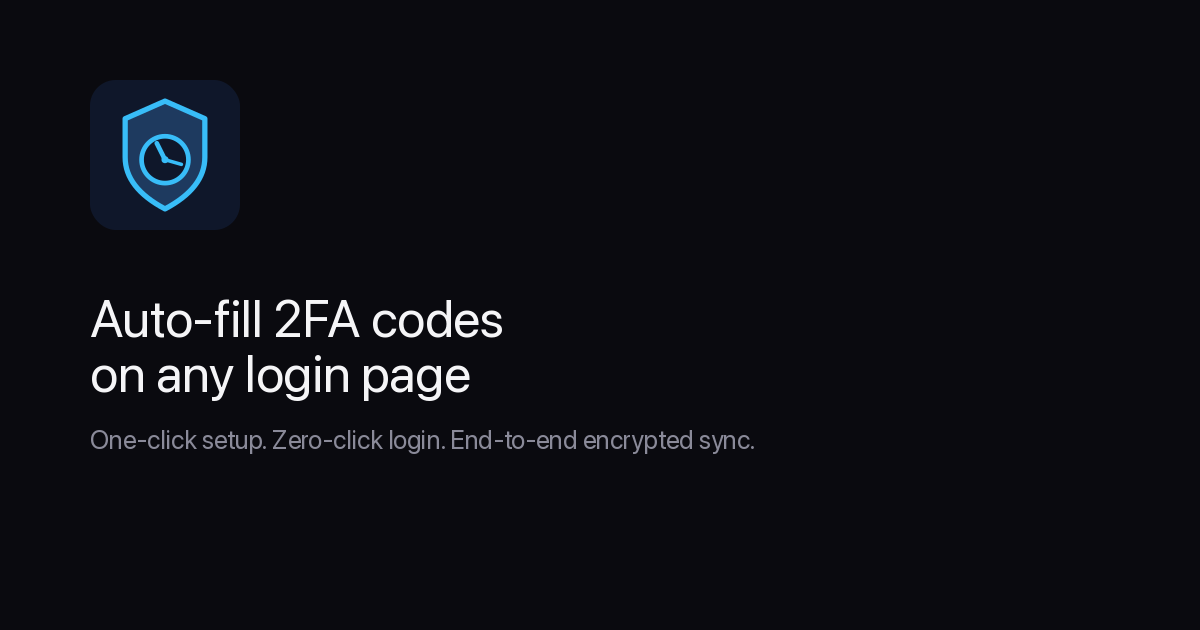
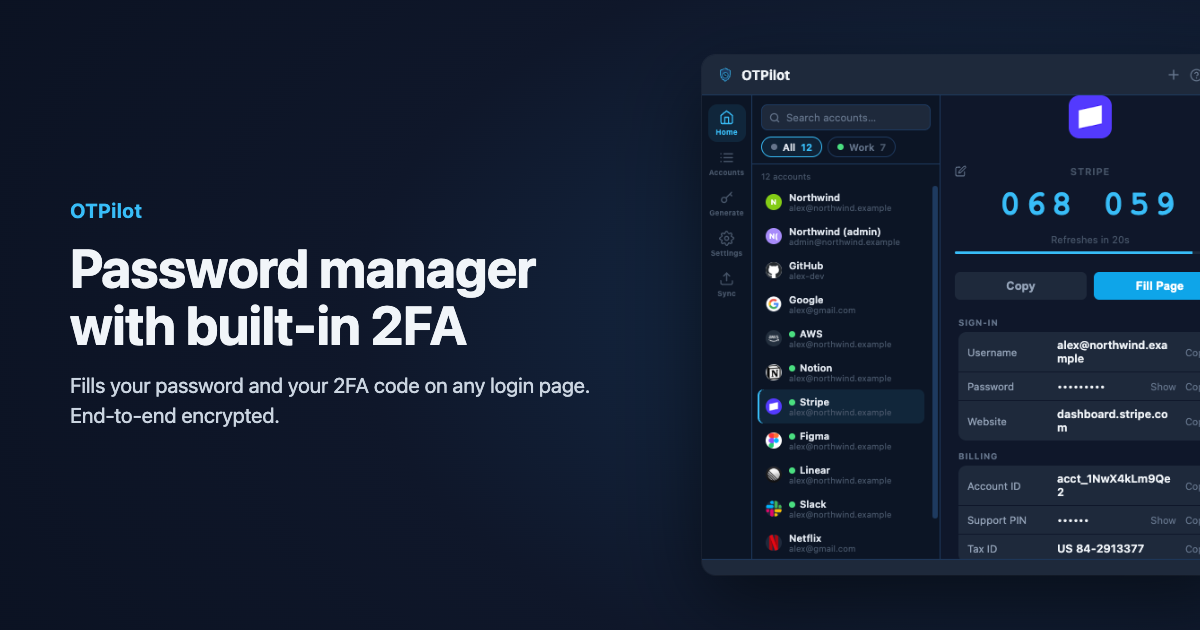
feat(web): SEO and selling pass — every public page indexed, screenshots, more features, new share image (#108)
* feat(web): SEO and selling pass — every public page indexed, screenshots, more features, new share image

- Prerender /security, /privacy, /tos, /gdpr and /refunds (search engines
  got an empty app shell), each with its own title, description and
  canonical; sitemap lists them all (+/security) with lastmod.
- H1 read "Password managerwith built-in 2FA": a real space now.
- FAQ answers are in the HTML (only the open one was) + FAQPage data.
- "See it in action": four real screenshots under the hero.
- Six more features: email codes, several accounts on a site, unlock on
  the page, more than passwords, switching from Google Authenticator,
  device control.
- og.png with the headline and the popup (was the 1.x "Auto-fill 2FA
  codes"), generated with the store images.

* fix(web): review — name the supported webmails; Google Authenticator import is for time-based codes

---------

diff --git a/web/src/components/Features.tsx b/web/src/components/Features.tsx
@@ -72,6 +72,78 @@ const features = [
     border: 'border-rose-500/10',
     iconBg: 'bg-rose-500/10 text-rose-400',
   },
+  {
+    icon: (
+      <svg className="w-6 h-6" fill="none" viewBox="0 0 24 24" stroke="currentColor" strokeWidth={1.5}>
+        <path strokeLinecap="round" strokeLinejoin="round" d="M21.75 6.75v10.5a2.25 2.25 0 01-2.25 2.25h-15a2.25 2.25 0 01-2.25-2.25V6.75m19.5 0A2.25 2.25 0 0019.5 4.5h-15a2.25 2.25 0 00-2.25 2.25m19.5 0v.243a2.25 2.25 0 01-1.07 1.916l-7.5 4.615a2.25 2.25 0 01-2.36 0L3.32 8.91a2.25 2.25 0 01-1.07-1.916V6.75" />
+      </svg>
+    ),
+    title: 'Email codes, filled too',
+    description: 'Waiting for a code by email? OTPilot reads it from an open Gmail, Outlook, Yahoo Mail, Proton Mail, Fastmail or Zoho Mail tab and fills it in. Processed only on your device.',
+    accent: 'from-teal-400/10 to-teal-400/5',
+    border: 'border-teal-500/10',
+    iconBg: 'bg-teal-500/10 text-teal-400',
+  },
+  {
+    icon: (
+      <svg className="w-6 h-6" fill="none" viewBox="0 0 24 24" stroke="currentColor" strokeWidth={1.5}>
+        <path strokeLinecap="round" strokeLinejoin="round" d="M15 19.128a9.38 9.38 0 002.625.372 9.337 9.337 0 004.121-.952 4.125 4.125 0 00-7.533-2.493M15 19.128v-.003c0-1.113-.285-2.16-.786-3.07M15 19.128v.106A12.318 12.318 0 018.624 21c-2.331 0-4.512-.645-6.374-1.766l-.001-.109a6.375 6.375 0 0111.964-3.07M12 6.375a3.375 3.375 0 11-6.75 0 3.375 3.375 0 016.75 0zm8.25 2.25a2.625 2.625 0 11-5.25 0 2.625 2.625 0 015.25 0z" />
+      </svg>
+    ),
+    title: 'Several accounts on one site',
+    description: 'Work and personal, staging and production: OTPilot finds every matching account and lets you pick the right one in one click.',
+    accent: 'from-emerald-400/10 to-emerald-400/5',
+    border: 'border-emerald-500/10',
+    iconBg: 'bg-emerald-500/10 text-emerald-400',
+  },
+  {
+    icon: (
+      <svg className="w-6 h-6" fill="none" viewBox="0 0 24 24" stroke="currentColor" strokeWidth={1.5}>
+        <path strokeLinecap="round" strokeLinejoin="round" d="M13.5 10.5V6.75a4.5 4.5 0 119 0v3.75M3.75 21.75h10.5a2.25 2.25 0 002.25-2.25v-6.75a2.25 2.25 0 00-2.25-2.25H3.75a2.25 2.25 0 00-2.25 2.25v6.75a2.25 2.25 0 002.25 2.25z" />
+      </svg>
+    ),
+    title: 'Unlock right on the page',
+    description: 'Vault locked? Type your master password in the prompt on the page and OTPilot unlocks and fills, without opening the popup.',
+    accent: 'from-cyan-400/10 to-cyan-400/5',
+    border: 'border-cyan-500/10',
+    iconBg: 'bg-cyan-500/10 text-cyan-400',
+  },
+  {
+    icon: (
+      <svg className="w-6 h-6" fill="none" viewBox="0 0 24 24" stroke="currentColor" strokeWidth={1.5}>
+        <path strokeLinecap="round" strokeLinejoin="round" d="M2.25 12.75V12A2.25 2.25 0 014.5 9.75h15A2.25 2.25 0 0121.75 12v.75m-8.69-6.44l-2.12-2.12a1.5 1.5 0 00-1.061-.44H4.5A2.25 2.25 0 002.25 6v12a2.25 2.25 0 002.25 2.25h15A2.25 2.25 0 0021.75 18V9a2.25 2.25 0 00-2.25-2.25h-5.379a1.5 1.5 0 01-1.06-.44z" />
+      </svg>
+    ),
+    title: 'More than passwords',
+    description: 'Secure notes, servers and API keys, with your own fields grouped in sections. Link related items to an account and find everything in one place.',
+    accent: 'from-violet-400/10 to-violet-400/5',
+    border: 'border-violet-500/10',
+    iconBg: 'bg-violet-500/10 text-violet-400',
+  },
+  {
+    icon: (
+      <svg className="w-6 h-6" fill="none" viewBox="0 0 24 24" stroke="currentColor" strokeWidth={1.5}>
+        <path strokeLinecap="round" strokeLinejoin="round" d="M7.5 7.5h-.75A2.25 2.25 0 004.5 9.75v7.5a2.25 2.25 0 002.25 2.25h7.5a2.25 2.25 0 002.25-2.25v-7.5a2.25 2.25 0 00-2.25-2.25h-.75m0-3l-3-3m0 0l-3 3m3-3v11.25m6-2.25h.75a2.25 2.25 0 012.25 2.25v7.5a2.25 2.25 0 01-2.25 2.25h-7.5a2.25 2.25 0 01-2.25-2.25v-.75" />
+      </svg>
+    ),
+    title: 'Switch from Google Authenticator',
+    description: 'Screenshot its "Transfer accounts" QR codes and select them to import its time-based 2FA codes, decoded on your device. Passwords import from a CSV.',
+    accent: 'from-amber-400/10 to-amber-400/5',
+    border: 'border-amber-500/10',
+    iconBg: 'bg-amber-500/10 text-amber-400',
+  },
+  {
+    icon: (
+      <svg className="w-6 h-6" fill="none" viewBox="0 0 24 24" stroke="currentColor" strokeWidth={1.5}>
+        <path strokeLinecap="round" strokeLinejoin="round" d="M9 17.25v1.007a3 3 0 01-.879 2.122L7.5 21h9l-.621-.621A3 3 0 0115 18.257V17.25m6-12V15a2.25 2.25 0 01-2.25 2.25H5.25A2.25 2.25 0 013 15V5.25m18 0A2.25 2.25 0 0018.75 3H5.25A2.25 2.25 0 003 5.25m18 0V12a2.25 2.25 0 01-2.25 2.25H5.25A2.25 2.25 0 013 12V5.25" />
+      </svg>
+    ),
+    title: 'Every device under control',
+    description: 'See each connected browser and its sync history, disconnect it or wipe it remotely, and get an email when a new one connects.',
+    accent: 'from-rose-400/10 to-rose-400/5',
+    border: 'border-rose-500/10',
+    iconBg: 'bg-rose-500/10 text-rose-400',
+  },
 ]
 
 export default function Features() {

diff --git a/extension/store/screenshots.spec.js b/extension/store/screenshots.spec.js
@@ -3,7 +3,8 @@
 //   npx playwright test -c store/playwright.config.js
 // Writes store/screenshots/<n>-<name>.png, plus the store's small promo tile
 // (store/promo-tile.png, 440×280), the marquee promo tile (store/marquee.png,
-// 1400×560) and the X header (store/x-header.png, 1500×500). The demo site is a fictional
+// 1400×560), the X header (store/x-header.png, 1500×500) and the website's
+// Open Graph image (web/public/og.png, 1200×630). The demo site is a fictional
 // "Northwind" (store/pages), served as northwind.example.
 import { test as base, chromium, expect } from '@playwright/test';
 import path from 'path';
@@ -228,6 +229,18 @@ test('promo tiles and X header', async ({ context, extensionId }) => {
       box-shadow: 0 30px 80px rgba(0,0,0,.55), 0 0 0 1px rgba(255,255,255,.06); }`,
     `<div class="copy"><div class="brand">OTPilot</div><h1>${HEADLINE}</h1>
       <p>Fills your password and your 2FA code on any login page. End&#8209;to&#8209;end encrypted, synced across devices.</p></div>
+     <img src="${shot}">`);
+
+  // The website's Open Graph image (1200×630), shared links on X, Slack, etc.
+  await banner(context, '../../web/public/og.png', 1200, 630, `
+    .copy { position: absolute; left: 70px; top: 50%; transform: translateY(-50%); width: 520px; }
+    .brand { font-size: 20px; margin-bottom: 18px; }
+    h1 { font-size: 54px; margin-bottom: 18px; }
+    p { font-size: 21px; }
+    img { position: absolute; right: -40px; top: 50%; transform: translateY(-50%); height: 520px; border-radius: 14px;
+      box-shadow: 0 30px 80px rgba(0,0,0,.55), 0 0 0 1px rgba(255,255,255,.06); }`,
+    `<div class="copy"><div class="brand">OTPilot</div><h1>${HEADLINE}</h1>
+      <p>Fills your password and your 2FA code on any login page. End&#8209;to&#8209;end encrypted.</p></div>
      <img src="${shot}">`);
 
   // X header (1500×500). The avatar covers the bottom-left corner: the copy

diff --git a/web/src/components/FAQ.tsx b/web/src/components/FAQ.tsx
@@ -1,4 +1,5 @@
 import { useState } from 'react'
+import { Head } from 'vite-react-ssg'
 
 const faqs = [
   {
@@ -56,6 +57,13 @@ export default function FAQ() {
 
   return (
     <section id="faq" className="py-24 px-6 border-t border-white/5">
+      <Head>
+        <script type="application/ld+json">{JSON.stringify({
+          '@context': 'https://schema.org',
+          '@type': 'FAQPage',
+          mainEntity: faqs.map(f => ({ '@type': 'Question', name: f.q, acceptedAnswer: { '@type': 'Answer', text: f.a } })),
+        })}</script>
+      </Head>
       <div className="max-w-3xl mx-auto">
         <div className="text-center mb-12">
           <h2 className="text-3xl md:text-4xl font-bold text-white mb-4 tracking-tight">
@@ -71,6 +79,7 @@ export default function FAQ() {
             >
               <button
                 onClick={() => setOpen(open === i ? null : i)}
+                aria-expanded={open === i}
                 className="w-full flex items-center justify-between px-5 py-4 text-left"
               >
                 <span className="text-sm font-medium text-zinc-200">{faq.q}</span>
@@ -81,11 +90,10 @@ export default function FAQ() {
                   <path strokeLinecap="round" strokeLinejoin="round" d="M19 9l-7 7-7-7" />
                 </svg>
               </button>
-              {open === i && (
-                <div className="px-5 pb-4">
-                  <p className="text-sm text-zinc-400 leading-relaxed">{faq.a}</p>
-                </div>
-              )}
+              {/* Always in the HTML (search engines read it), shown when open. */}
+              <div className="px-5 pb-4" hidden={open !== i}>
+                <p className="text-sm text-zinc-400 leading-relaxed">{faq.a}</p>
+              </div>
             </div>
           ))}
         </div>

diff --git a/web/src/components/Showcase.tsx b/web/src/components/Showcase.tsx
@@ -1,0 +1,38 @@
+// The extension at work: real screenshots (generated with the store images,
+// extension/store/screenshots.spec.js), so visitors see the product before
+// they install it.
+const shots = [
+  { src: '/screens/1-fill-login.webp', alt: 'OTPilot offering the saved logins in the email field of a sign-in page' },
+  { src: '/screens/2-fill-2fa.webp', alt: 'A two-factor authentication page with the code already filled in by OTPilot' },
+  { src: '/screens/3-account.webp', alt: 'The OTPilot popup showing an account: its live 2FA code, sign-in details and extra fields' },
+  { src: '/screens/4-save-login.webp', alt: 'OTPilot offering to save a new login after signing in' },
+]
+
+export default function Showcase() {
+  return (
+    <section id="see-it" className="py-16 px-6">
+      <div className="max-w-6xl mx-auto">
+        <h2 className="text-3xl md:text-4xl font-bold text-white mb-4 tracking-tight text-center">
+          See it in action
+        </h2>
+        <p className="text-zinc-400 max-w-xl mx-auto text-center mb-12">
+          Your password, then your 2FA code, filled on the page. Everything else about the account one click away.
+        </p>
+        <div className="grid grid-cols-1 md:grid-cols-2 gap-6">
+          {shots.map((s) => (
+            <img
+              key={s.src}
+              src={s.src}
+              alt={s.alt}
+              width={1280}
+              height={800}
+              loading="lazy"
+              decoding="async"
+              className="w-full h-auto rounded-2xl border border-white/10 shadow-2xl shadow-black/40"
+            />
+          ))}
+        </div>
+      </div>
+    </section>
+  )
+}

diff --git a/web/vite.config.ts b/web/vite.config.ts
@@ -32,9 +32,10 @@ export default defineConfig({
   ssgOptions: {
     // Clean URLs: "/" only, output stays dist/index.html regardless.
     dirStyle: 'nested',
-    // Prerender the landing page only — dashboard/auth/legal stay a
-    // client-only SPA, served through the app-shell fallback below.
-    includedRoutes: () => ['/'],
+    // Prerender the public pages (indexed by search engines); dashboard,
+    // auth and support stay a client-only SPA, served through the
+    // app-shell fallback below. Keep in sync with public/sitemap.xml.
+    includedRoutes: () => ['/', '/security', '/privacy', '/tos', '/gdpr', '/refunds'],
     onFinished: () => {
       writeAppShell()
     },

diff --git a/web/src/pages/legal/Security.tsx b/web/src/pages/legal/Security.tsx
@@ -1,8 +1,14 @@
+import { Seo } from '../../seo'
 import { Link } from 'react-router-dom'
 
 export default function Security() {
   return (
     <div className="min-h-screen bg-[#0a0a0f] px-6 py-16">
+      <Seo
+        title="Security: how OTPilot protects your passwords and 2FA"
+        description="End-to-end encryption in plain language: what OTPilot stores, what it never sees, and how your vault, sync and team sharing are protected."
+        path="/security"
+      />
       <div className="max-w-2xl mx-auto">
         <Link to="/" className="text-sm text-zinc-500 hover:text-zinc-300 transition-colors mb-8 inline-block">
           ← Back to home

diff --git a/web/src/pages/legal/Gdpr.tsx b/web/src/pages/legal/Gdpr.tsx
@@ -1,3 +1,4 @@
+import { Seo } from '../../seo'
 import { Link } from 'react-router-dom'
 
 const rights = [
@@ -61,6 +62,11 @@ const processors = [
 export default function Gdpr() {
   return (
     <div className="min-h-screen bg-[#0a0a0f] px-6 py-16">
+      <Seo
+        title="GDPR | OTPilot"
+        description="How OTPilot handles personal data under the GDPR, and how to exercise your rights."
+        path="/gdpr"
+      />
       <div className="max-w-2xl mx-auto">
         <Link to="/" className="text-sm text-zinc-500 hover:text-zinc-300 transition-colors mb-8 inline-block">
           ← Back to home

diff --git a/web/src/pages/legal/Privacy.tsx b/web/src/pages/legal/Privacy.tsx
@@ -1,8 +1,14 @@
+import { Seo } from '../../seo'
 import { Link } from 'react-router-dom'
 
 export default function Privacy() {
   return (
     <div className="min-h-screen bg-[#0a0a0f] px-6 py-16">
+      <Seo
+        title="Privacy Policy | OTPilot"
+        description="What OTPilot collects, why, and what it never sees: your passwords, notes and 2FA secrets are encrypted on your device."
+        path="/privacy"
+      />
       <div className="max-w-2xl mx-auto">
         <Link to="/" className="text-sm text-zinc-500 hover:text-zinc-300 transition-colors mb-8 inline-block">
           ← Back to home

diff --git a/web/src/pages/legal/Tos.tsx b/web/src/pages/legal/Tos.tsx
@@ -1,8 +1,14 @@
+import { Seo } from '../../seo'
 import { Link } from 'react-router-dom'
 
 export default function Tos() {
   return (
     <div className="min-h-screen bg-[#0a0a0f] px-6 py-16">
+      <Seo
+        title="Terms of Service | OTPilot"
+        description="The terms for using the OTPilot browser extension, website and cloud services."
+        path="/tos"
+      />
       <div className="max-w-2xl mx-auto">
         <Link to="/" className="text-sm text-zinc-500 hover:text-zinc-300 transition-colors mb-8 inline-block">
           ← Back to home

diff --git a/web/src/pages/legal/Refunds.tsx b/web/src/pages/legal/Refunds.tsx
@@ -1,8 +1,14 @@
+import { Seo } from '../../seo'
 import { Link } from 'react-router-dom'
 
 export default function Refunds() {
   return (
     <div className="min-h-screen bg-[#0a0a0f] px-6 py-16">
+      <Seo
+        title="Refund Policy | OTPilot"
+        description="How refunds work for OTPilot Personal and Team subscriptions."
+        path="/refunds"
+      />
       <div className="max-w-2xl mx-auto">
         <Link to="/" className="text-sm text-zinc-500 hover:text-zinc-300 transition-colors mb-8 inline-block">
           ← Back to home

diff --git a/web/src/pages/Landing.tsx b/web/src/pages/Landing.tsx
@@ -2,6 +2,7 @@ import { useCrisp } from '../lib/useCrisp'
 import { Seo } from '../seo'
 import Navbar from '../components/Navbar'
 import Hero from '../components/Hero'
+import Showcase from '../components/Showcase'
 import Features from '../components/Features'
 import HowItWorks from '../components/HowItWorks'
 import Pricing from '../components/Pricing'
@@ -19,6 +20,7 @@ export default function Landing() {
       />
       <Navbar />
       <Hero />
+      <Showcase />
       <Features />
       <HowItWorks />
       <Pricing />

diff --git a/web/src/seo.tsx b/web/src/seo.tsx
@@ -2,7 +2,7 @@ import { Head } from 'vite-react-ssg'
 
 export const SITE = 'https://otpilot.app'
 const DEFAULT_IMG = `${SITE}/og.png`
-const DEFAULT_IMG_ALT = 'OTPilot shield logo with the tagline "Auto-fill 2FA codes on any login page"'
+const DEFAULT_IMG_ALT = 'OTPilot — Password manager with built-in 2FA, next to the extension showing a 2FA code'
 
 /** Per-page head: title, description, canonical, Open Graph and Twitter. Rendered
  * into the static HTML at build (vite-react-ssg) and updated on the client. Every
